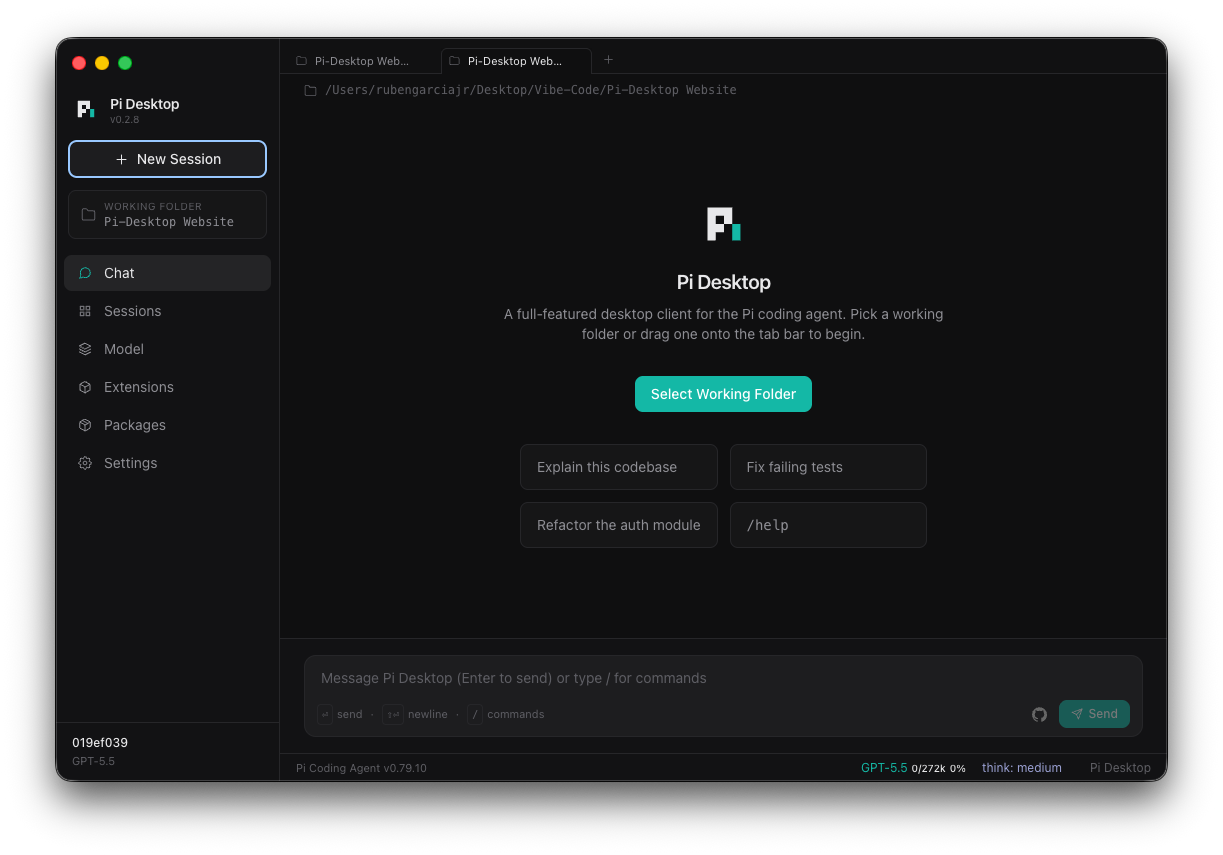
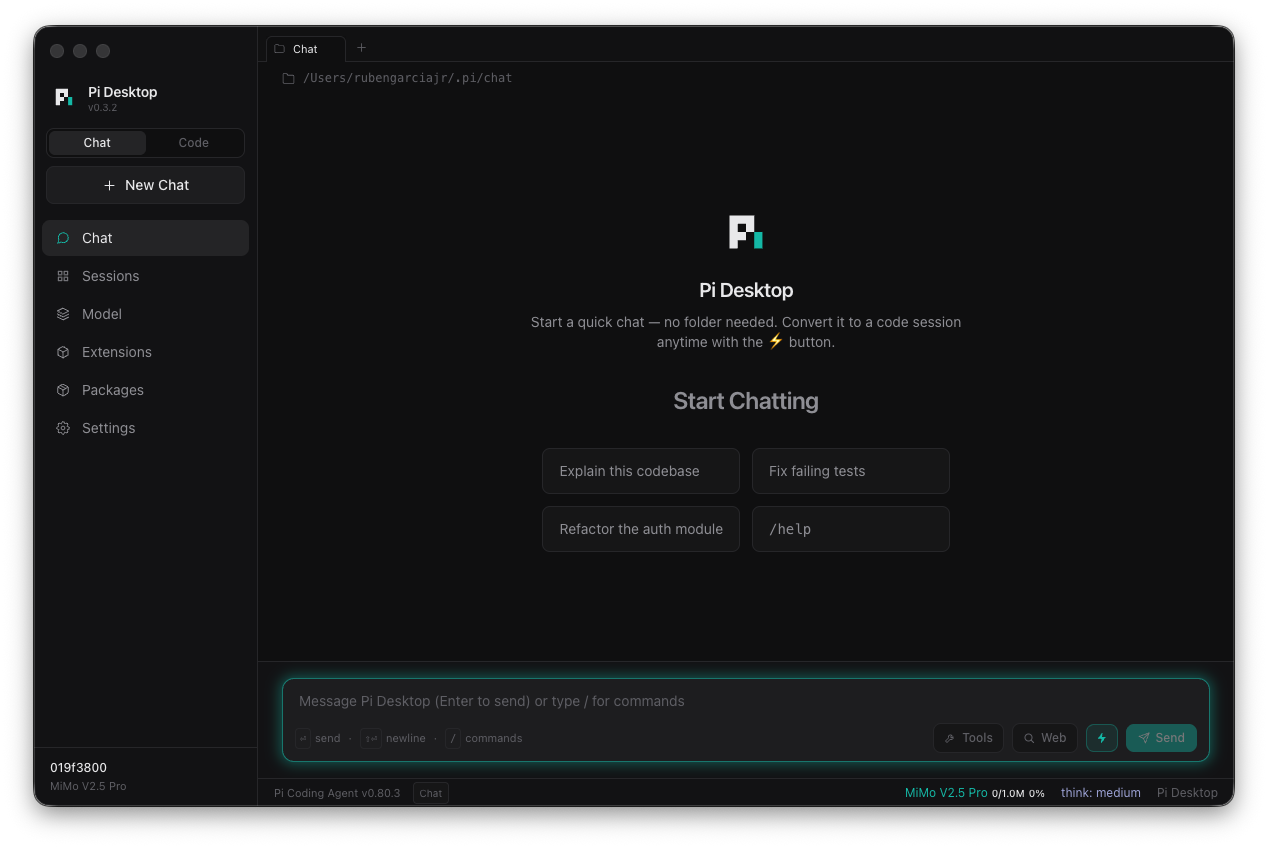
Update hero screenshot to the v0.3.2 opening screen
Replace app-starting-screen.png (both the public copy and the src/app
duplicate) with the current v0.3.2 chat-first opening screen, and update
the Hero <Image> intrinsic dimensions from 1223x855 to 1268x848 to match
the new capture's aspect ratio.

diff --git a/src/components/sections/Hero.tsx b/src/components/sections/Hero.tsx
@@ -148,8 +148,8 @@ export function Hero() {
             <Image
               src="/app-starting-screen.png"
               alt="Pi Desktop starting screen"
-              width={1223}
-              height={855}
+              width={1268}
+              height={848}
               className="w-full h-auto"
               priority
             />